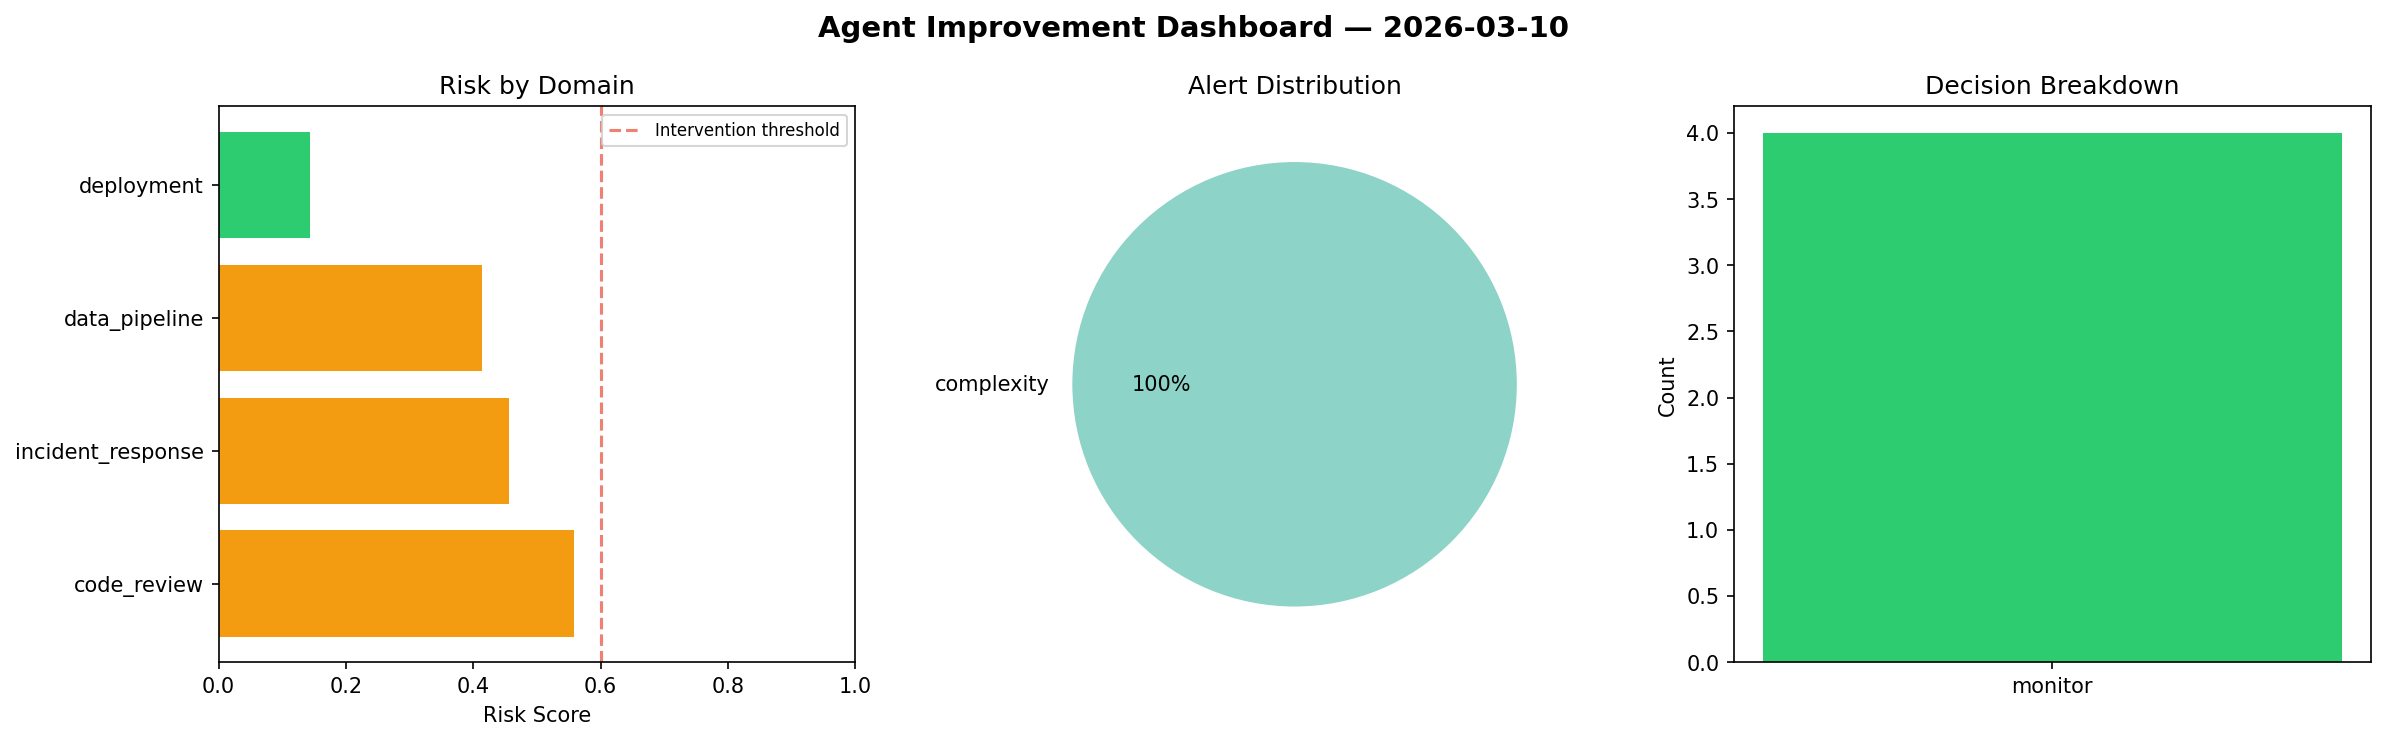
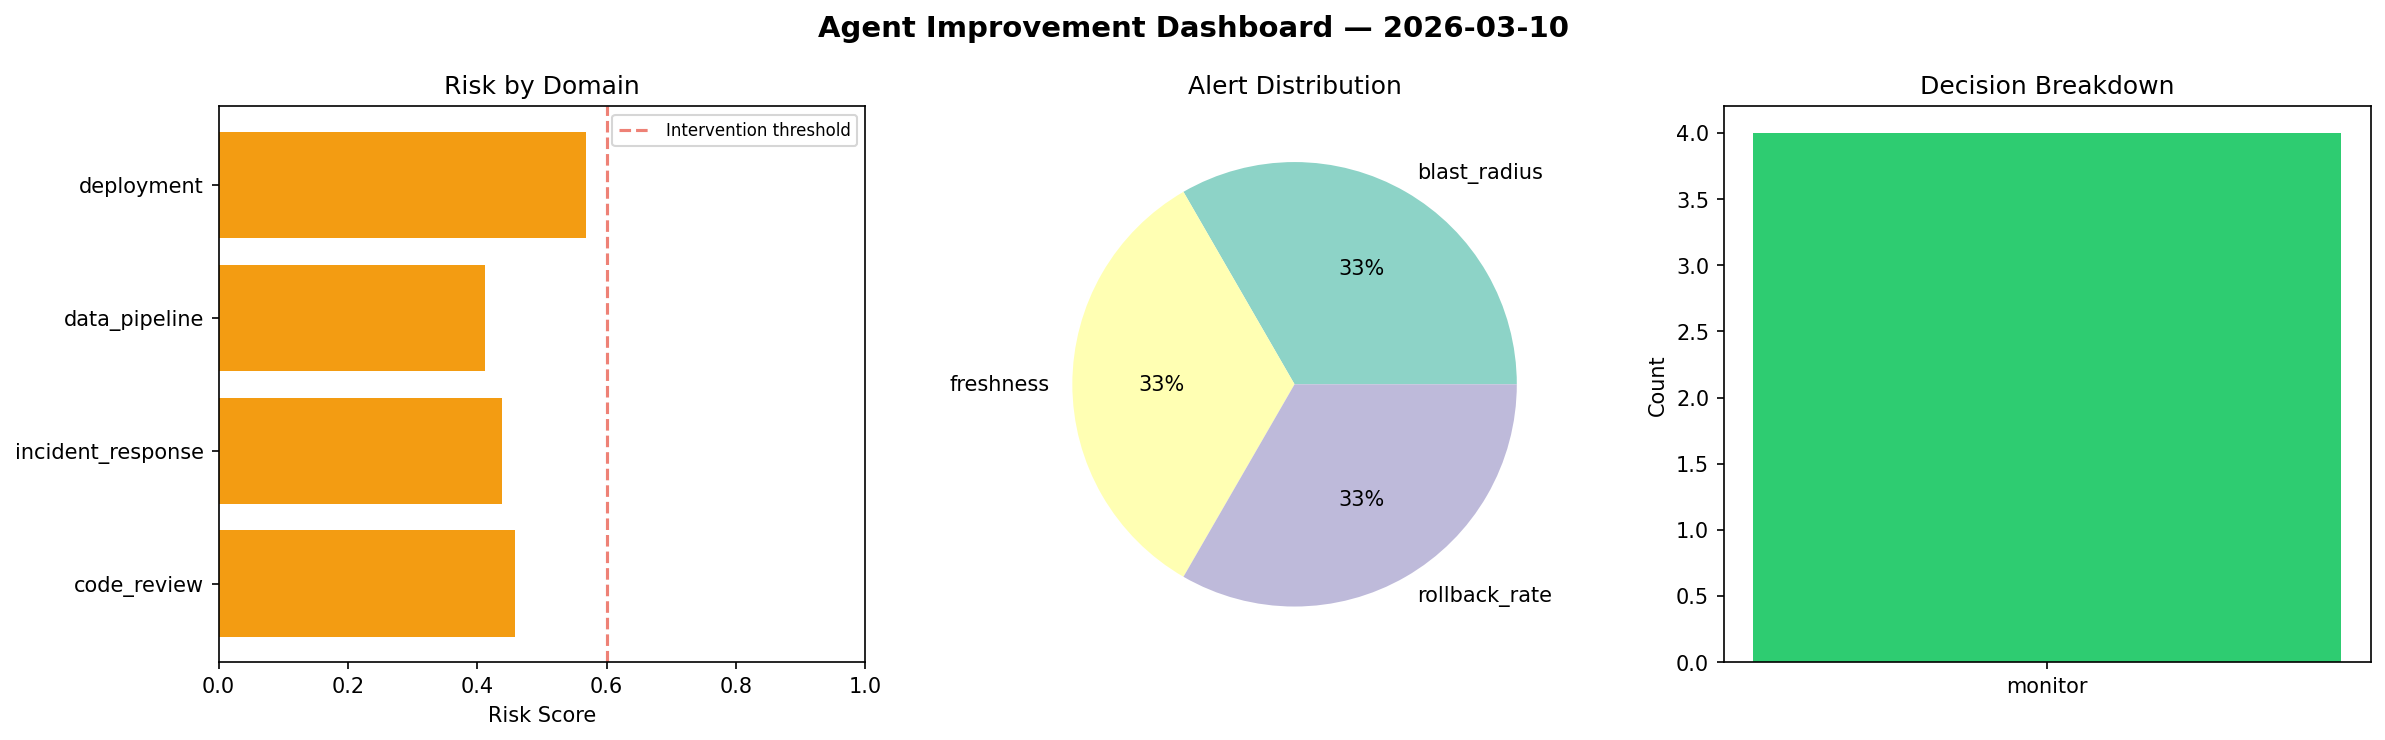
agent-improvement: daily cycle 2026-03-10T09:00

diff --git a/logs/2026-03-10.md b/logs/2026-03-10.md
@@ -1,6 +1,6 @@
 # Agent Improvement Report — 2026-03-10
 
-**Cycle ID:** `f4902c1a` | **Avg Risk:** 0.3926 | **Interventions:** 0/4
+**Cycle ID:** `a2fb6b16` | **Avg Risk:** 0.469 | **Interventions:** 0/4
 
 ![Dashboard](2026-03-10_dashboard.png)
 
@@ -10,18 +10,18 @@
 
 | Domain | Risk Score | Decision | Alerts |
 |--------|-----------|----------|--------|
-| code_review | 0.5584 | monitor | complexity |
-| incident_response | 0.4555 | monitor | none |
-| data_pipeline | 0.4139 | monitor | none |
-| deployment | 0.1428 | monitor | none |
+| code_review | 0.4582 | monitor | none |
+| incident_response | 0.4374 | monitor | blast_radius |
+| data_pipeline | 0.4118 | monitor | freshness |
+| deployment | 0.5685 | monitor | rollback_rate |
 
 ## Delta vs Yesterday
 
 | Domain | Today | Yesterday | Change |
 |--------|-------|-----------|--------|
-| code_review | 0.5584 | 0.8957 | 📉 -37.7% |
-| incident_response | 0.4555 | 0.2941 | 📈 54.9% |
-| data_pipeline | 0.4139 | 0.6279 | 📉 -34.1% |
-| deployment | 0.1428 | 0.5259 | 📉 -72.8% |
+| code_review | 0.4582 | 0.8957 | 📉 -48.8% |
+| incident_response | 0.4374 | 0.2941 | 📈 48.7% |
+| data_pipeline | 0.4118 | 0.6279 | 📉 -34.4% |
+| deployment | 0.5685 | 0.5259 | 📈 8.1% |
 
-**Refinement:** `{'adjustment': 'maintain', 'trend': 'improving', 'window': 4}`
+**Refinement:** `{'adjustment': 'tighten_thresholds', 'trend': 'degrading', 'window': 4}`
